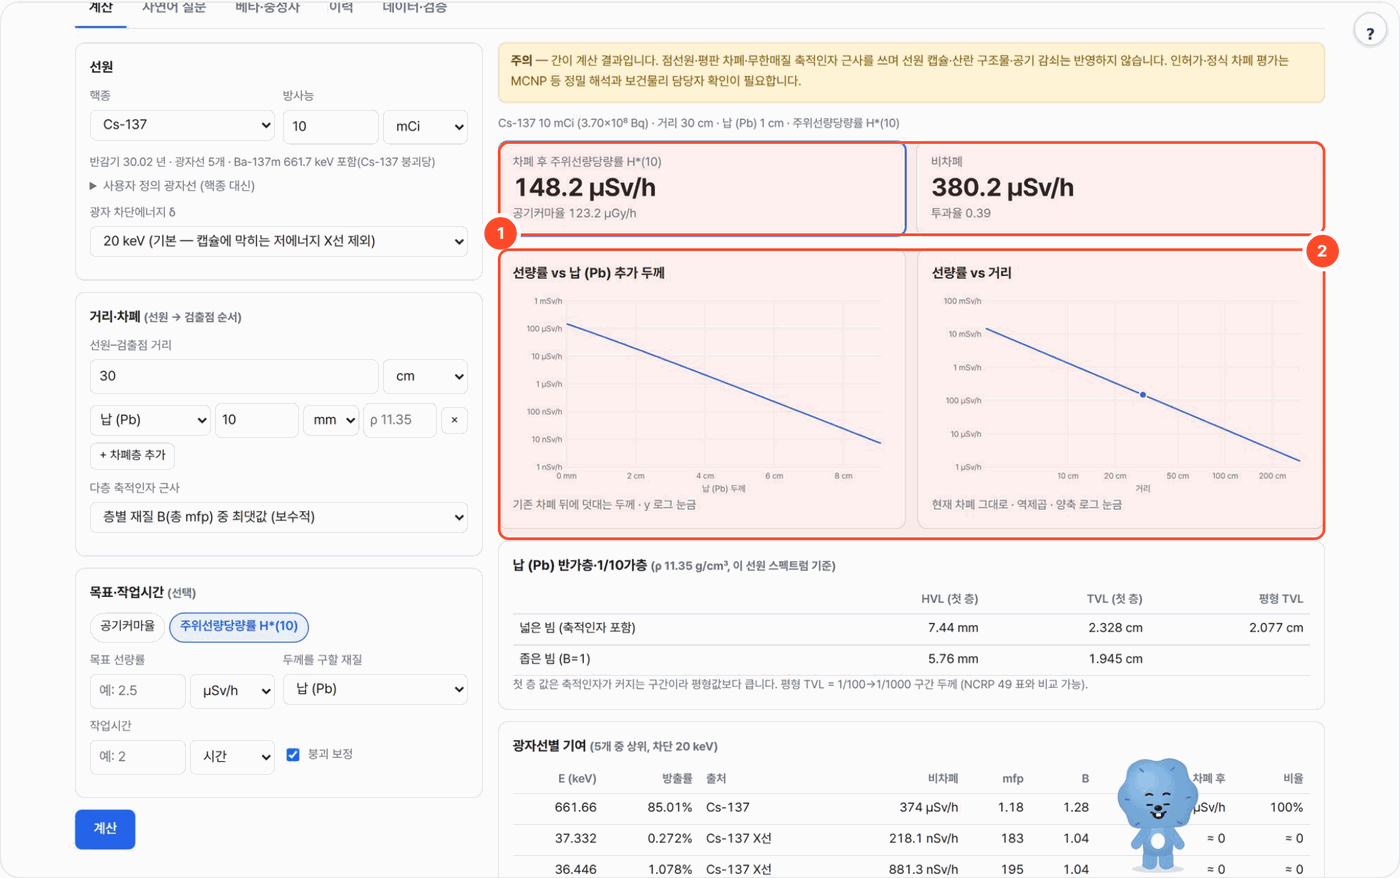
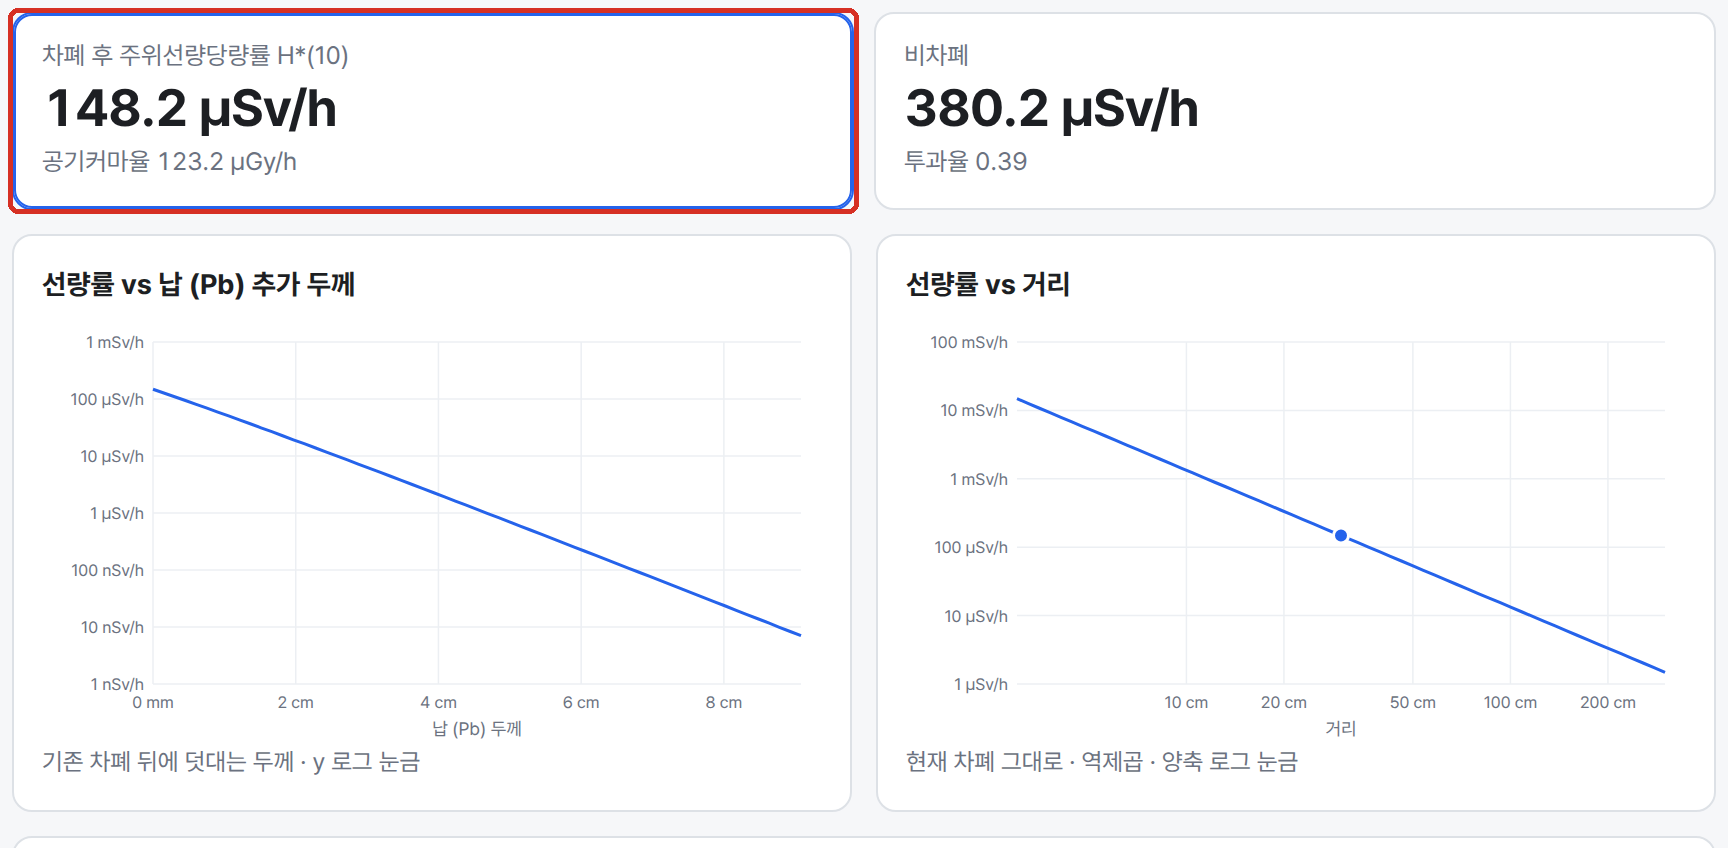
README: 사용 화면 새 캡처(상자 표시)·자연어 질문 예시 추가

diff --git a/README.md b/README.md
@@ -5,7 +5,7 @@
 > **간이 계산입니다.** 점선원·평판 차폐·무한매질 축적인자 근사를 쓰며 선원 캡슐·산란 구조물·공기 감쇠는 반영하지 않습니다.
 > 인허가·정식 차폐 평가는 MCNP 등 정밀 해석과 보건물리 담당자 확인이 필요합니다. (화면·보고서에 항상 표시)
 
-![계산 결과 — ① 핵심 지표 ② 선량률–두께·선량률–거리 그래프](docs/img/result.png)
+![계산 결과 — 상자: 차폐 후 H*(10), 아래 선량률–두께·선량률–거리 그래프](docs/img/result.png)
 
 ## 무엇을 하나
 
@@ -16,20 +16,23 @@
 
 ## 사용 방법
 
-![입력 화면 — ① 핵종 ② 방사능 ③ 선원–검출점 거리](docs/img/input.png)
+![입력 화면 — 상자: 핵종·방사능, 선원–검출점 거리](docs/img/input.png)
 
-1. **계산** 탭에서 핵종(①, 29종)과 방사능(②, Bq·GBq·Ci·mCi·μCi…)을 고르고 선원–검출점 거리(③)를 넣습니다.
+1. **계산** 탭에서 핵종(29종)과 방사능(Bq·GBq·Ci·mCi·μCi…)을 고르고 선원–검출점 거리를 넣습니다.
 2. 차폐층을 선원 쪽부터 재질·두께 순으로 쌓고(**+ 차폐층 추가**) **계산**을 누릅니다. 숫자는 전부 로컬 Python 이 계산합니다.
-3. 결과의 핵심 지표(결과 화면 ①: 차폐 후 H*(10)·공기커마율, 비차폐 대비 투과율)와 그래프(②)를 보고, 아래의 반가층·1/10가층, 광자선별 기여, 단계별 계산 근거를 확인합니다.
+3. 결과의 핵심 지표(차폐 후 H*(10)·공기커마율, 비차폐 대비 투과율)와 그래프를 보고, 아래의 반가층·1/10가층, 광자선별 기여, 단계별 계산 근거를 확인합니다.
 4. (선택) **목표·작업시간**에 목표 선량률과 재질을 넣으면 필요한 추가 두께를, 작업시간을 넣으면 누적선량을 더합니다. 보고서는 MD·PDF(인쇄)로 받고, 모든 계산은 **이력** 탭에 남습니다.
 
 ## 예시
 
-포털 경유로 실제 실행한 결과입니다(2026-10-07).
+포털 경유로 실제 실행한 결과입니다(2026-10-12).
 
 - **입력**: Cs-137 · 방사능 10 mCi (3.70×10⁸ Bq) · 거리 30 cm · 납(Pb) 10 mm · 광자 차단에너지 20 keV · 다층 축적인자 '층별 최댓값'
 - **출력**: 차폐 후 H*(10) **148.2 μSv/h** · 공기커마율 123.2 μGy/h · 비차폐 380.2 μSv/h · 투과율 0.39
 - 같은 화면의 납 반가층·1/10가층: 넓은 빔 HVL 7.44 mm · 첫 TVL 2.328 cm · 평형 TVL 2.077 cm, 좁은 빔 HVL 5.76 mm · TVL 1.945 cm
+- **자연어 질문**으로 같은 계산: "김동주 연구원 실험대: Cs-137 10 mCi 선원을 30 cm 거리에서 납 10 mm로 막으면 선량률은?" → LLM 이 읽은 입력값(Cs-137 · 10 mCi · 30 cm · 납 10 mm, 입력값 검사 통과) → 148.2 μSv/h, 설명의 숫자 모두 계산 결과와 일치
+
+![자연어 질문 — 상자: 질문 입력, 질문 → 계산](docs/img/ask.png)
 
 ## 설치·실행
 
